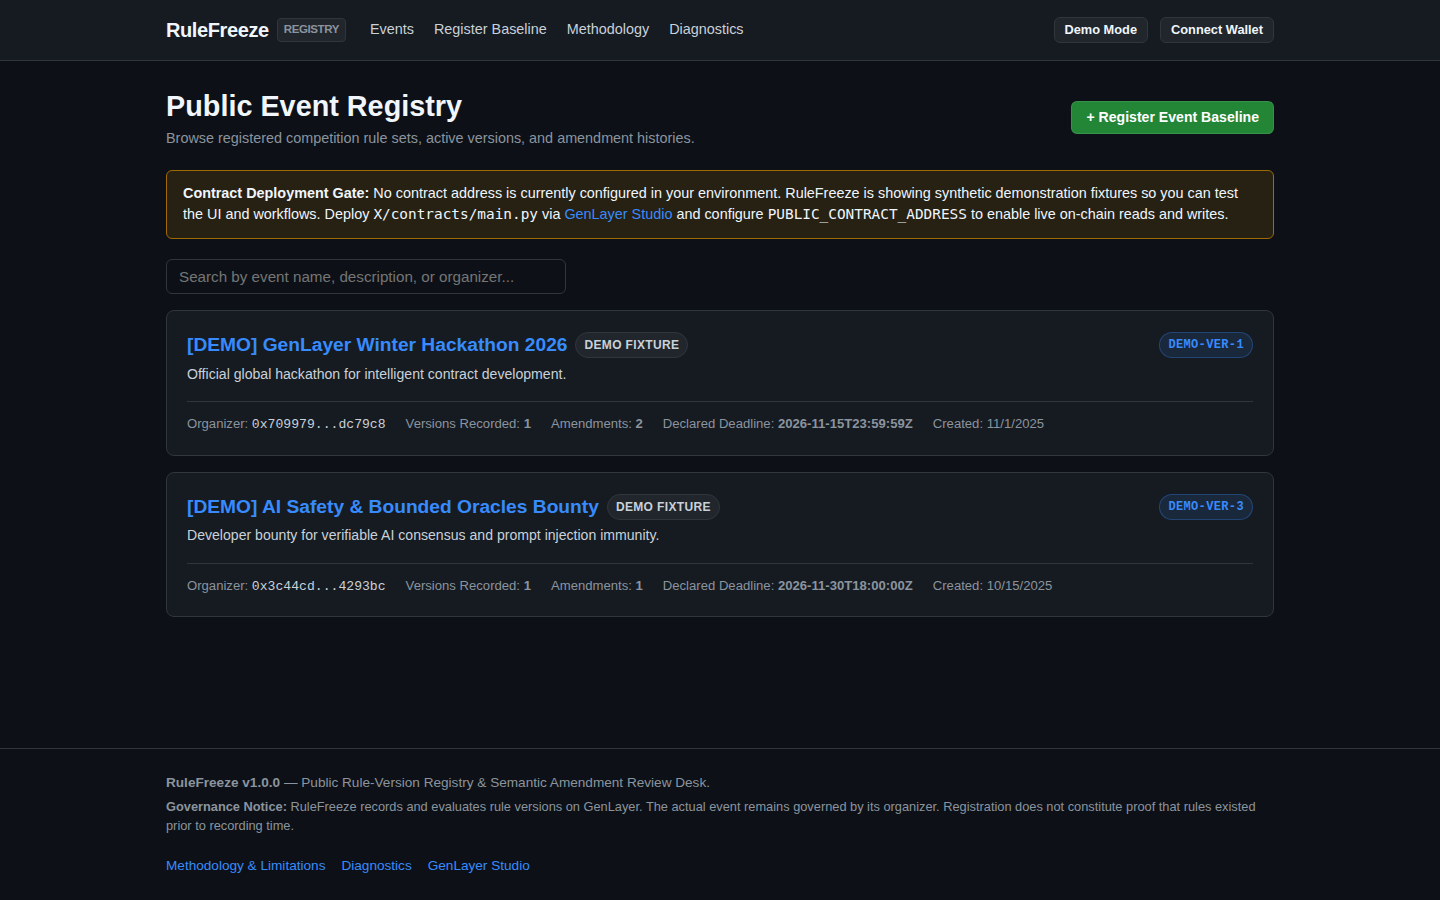
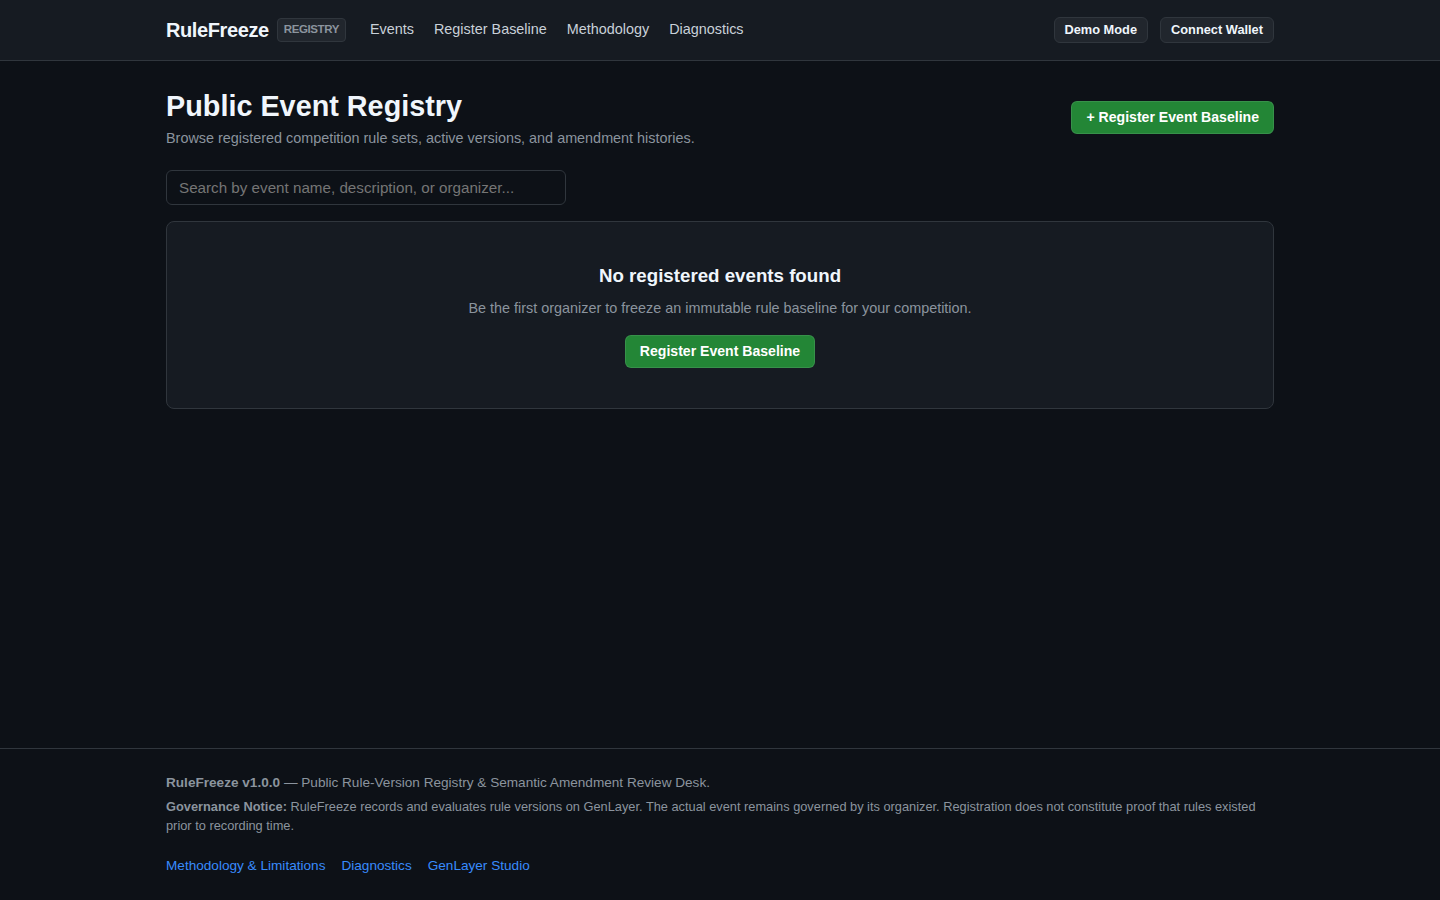
verify source fixes, test suites, and clean screenshots

diff --git a/src/app/events/new/page.tsx b/src/app/events/new/page.tsx
@@ -95,7 +95,7 @@ export default function NewEventPage() {
     }
   };
 
-  const applySyntheticQA = () => {
+  const applySyntheticQA = async () => {
     setName(SYNTHETIC_QA_FIXTURE.name);
     setDescription(SYNTHETIC_QA_FIXTURE.description);
     setEventUrl(SYNTHETIC_QA_FIXTURE.eventUrl);
@@ -105,6 +105,23 @@ export default function NewEventPage() {
     setScenarios(SYNTHETIC_QA_FIXTURE.scenarios);
     setShowConfirmOverwrite(false);
     setError(null);
+
+    try {
+      await saveEventDraft({
+        id: "active_draft",
+        name: SYNTHETIC_QA_FIXTURE.name,
+        description: SYNTHETIC_QA_FIXTURE.description,
+        event_url: SYNTHETIC_QA_FIXTURE.eventUrl,
+        declared_start: SYNTHETIC_QA_FIXTURE.declaredStart,
+        declared_deadline: SYNTHETIC_QA_FIXTURE.declaredDeadline,
+        initial_rules: SYNTHETIC_QA_FIXTURE.initialRules,
+        scenarios: SYNTHETIC_QA_FIXTURE.scenarios,
+        account: account || "anonymous",
+        updatedAt: Date.now(),
+      });
+    } catch (e) {
+      console.warn("Draft persistence notice:", e);
+    }
   };
 
   const loadSyntheticQA = () => {

diff --git a/src/lib/fixtures.ts b/src/lib/fixtures.ts
@@ -12,7 +12,7 @@ export const SYNTHETIC_QA_FIXTURE = {
   initialRules:
     "1. Eligibility: One entry per person.\n" +
     "2. Deliverables: A public source repository is required. A live hosted frontend is optional.\n" +
-    "3. Deadlines: Final submissions due Friday before 23:59 UTC.\n" +
+    "3. Deadlines: Final submissions must be submitted no later than 2026-11-15 at 23:59:59 UTC.\n" +
     "4. Scoring: Functionality accounts for 70% of scoring. Presentation accounts for 30%.",
   scenarios: [
     {
@@ -31,9 +31,9 @@ export const SYNTHETIC_QA_FIXTURE = {
     },
     {
       id: "SC-C",
-      title: "One person with two wallets",
-      situation: "One person using two different wallet addresses submits two entries.",
-      question: "Is the second entry allowed?",
+      title: "One person submitting two entries via different wallets",
+      situation: "One person submits one entry through wallet A and a second entry through wallet B.",
+      question: "Is this person's second entry allowed?",
       dimension: "ELIGIBILITY",
     },
   ] as ParticipantScenario[],

diff --git a/src/app/events/[id]/page.tsx b/src/app/events/[id]/page.tsx
@@ -25,7 +25,7 @@ export default function EventDetailPage({ params }: { params: Promise<{ id: stri
 
     getPublicConfig().then(async (cfg) => {
       try {
-        if (demo || !cfg.contractAddress) {
+        if (demo || !cfg.contractAddress || eventId.startsWith("demo-")) {
           const ev = await mockFetchEvent(eventId);
           const vers = await mockFetchEventVersions(eventId);
           const amends = await mockFetchEventAmendments(eventId);

diff --git a/src/app/events/[id]/amendments/[amendmentId]/page.tsx b/src/app/events/[id]/amendments/[amendmentId]/page.tsx
@@ -68,7 +68,7 @@ export default function AmendmentReviewPage({
       let baseV: RuleVersion;
       let assess: AssessmentRecord | null = null;
 
-      if (demo || !cfg.contractAddress) {
+      if (demo || !cfg.contractAddress || eventId.startsWith("demo-")) {
         ev = await mockFetchEvent(eventId);
         am = await mockFetchAmendment(amendmentId);
         baseV = await mockFetchRuleVersion(am.base_version_id);

diff --git a/src/app/events/[id]/amend/page.tsx b/src/app/events/[id]/amend/page.tsx
@@ -37,7 +37,7 @@ export default function ProposeAmendmentPage({ params }: { params: Promise<{ id:
       try {
         let ev: EventRecord;
         let ver: RuleVersion;
-        if (demo || !cfg.contractAddress) {
+        if (demo || !cfg.contractAddress || eventId.startsWith("demo-")) {
           ev = await mockFetchEvent(eventId);
           ver = await mockFetchRuleVersion(ev.active_version_id);
         } else {
